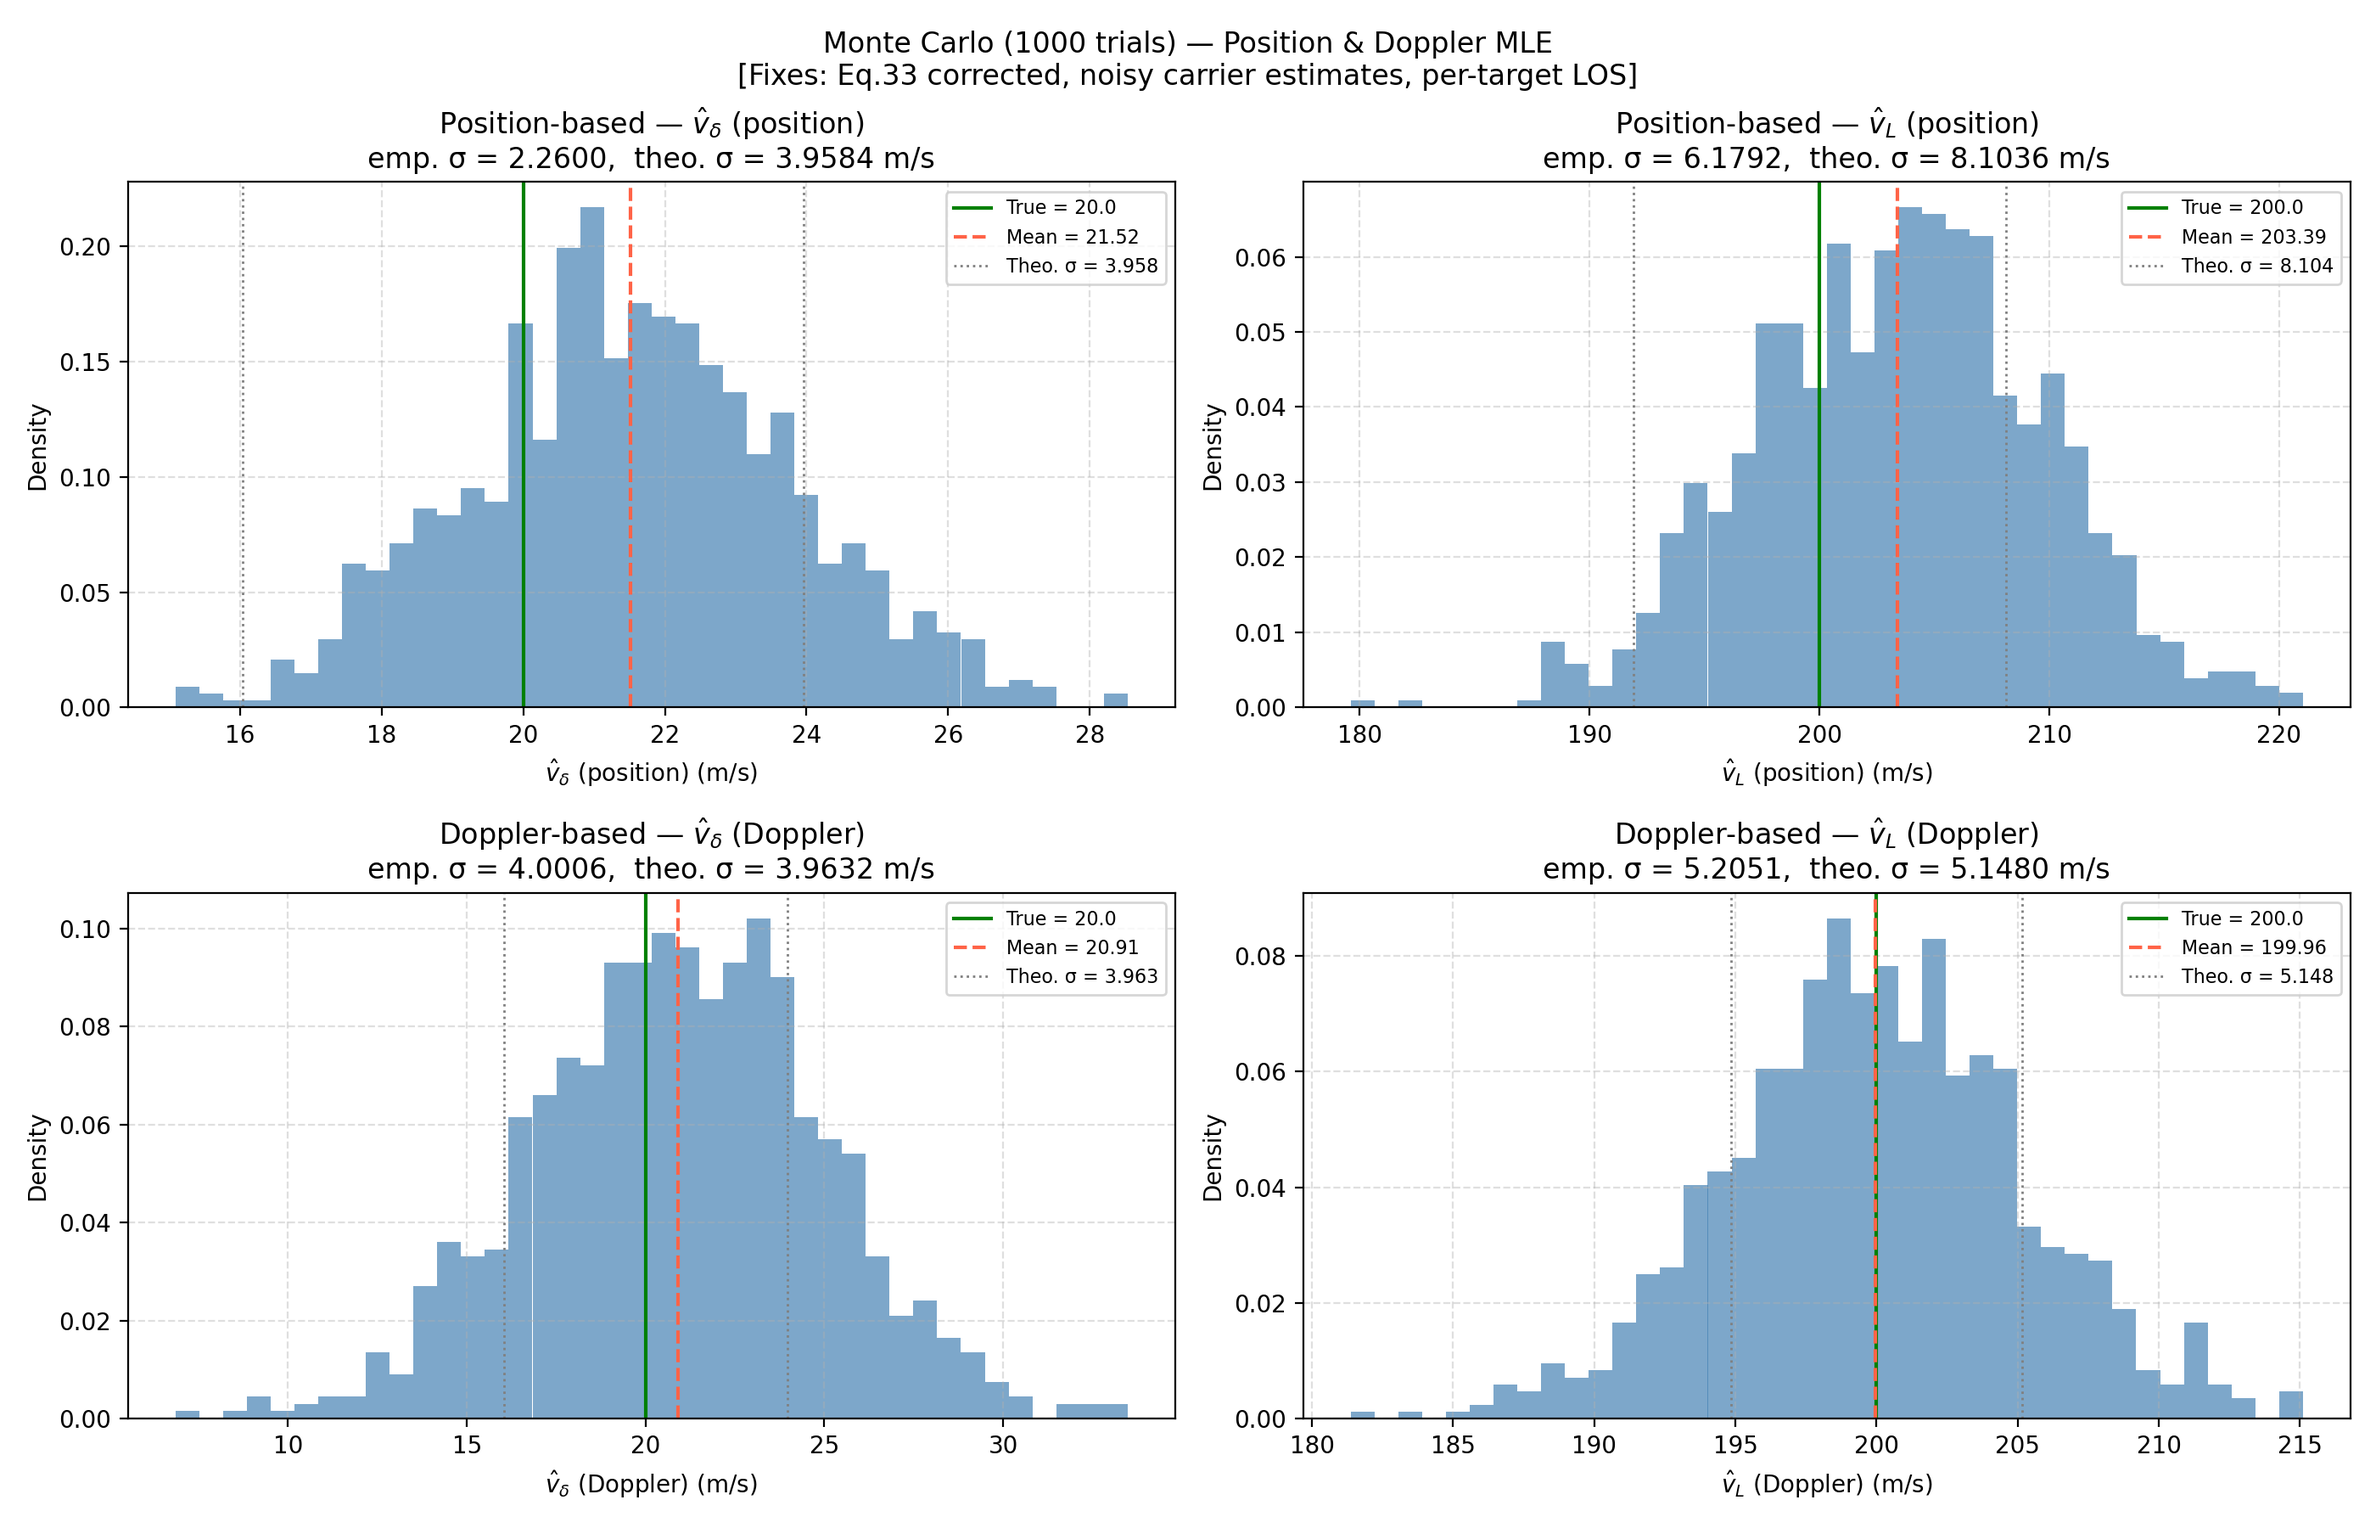
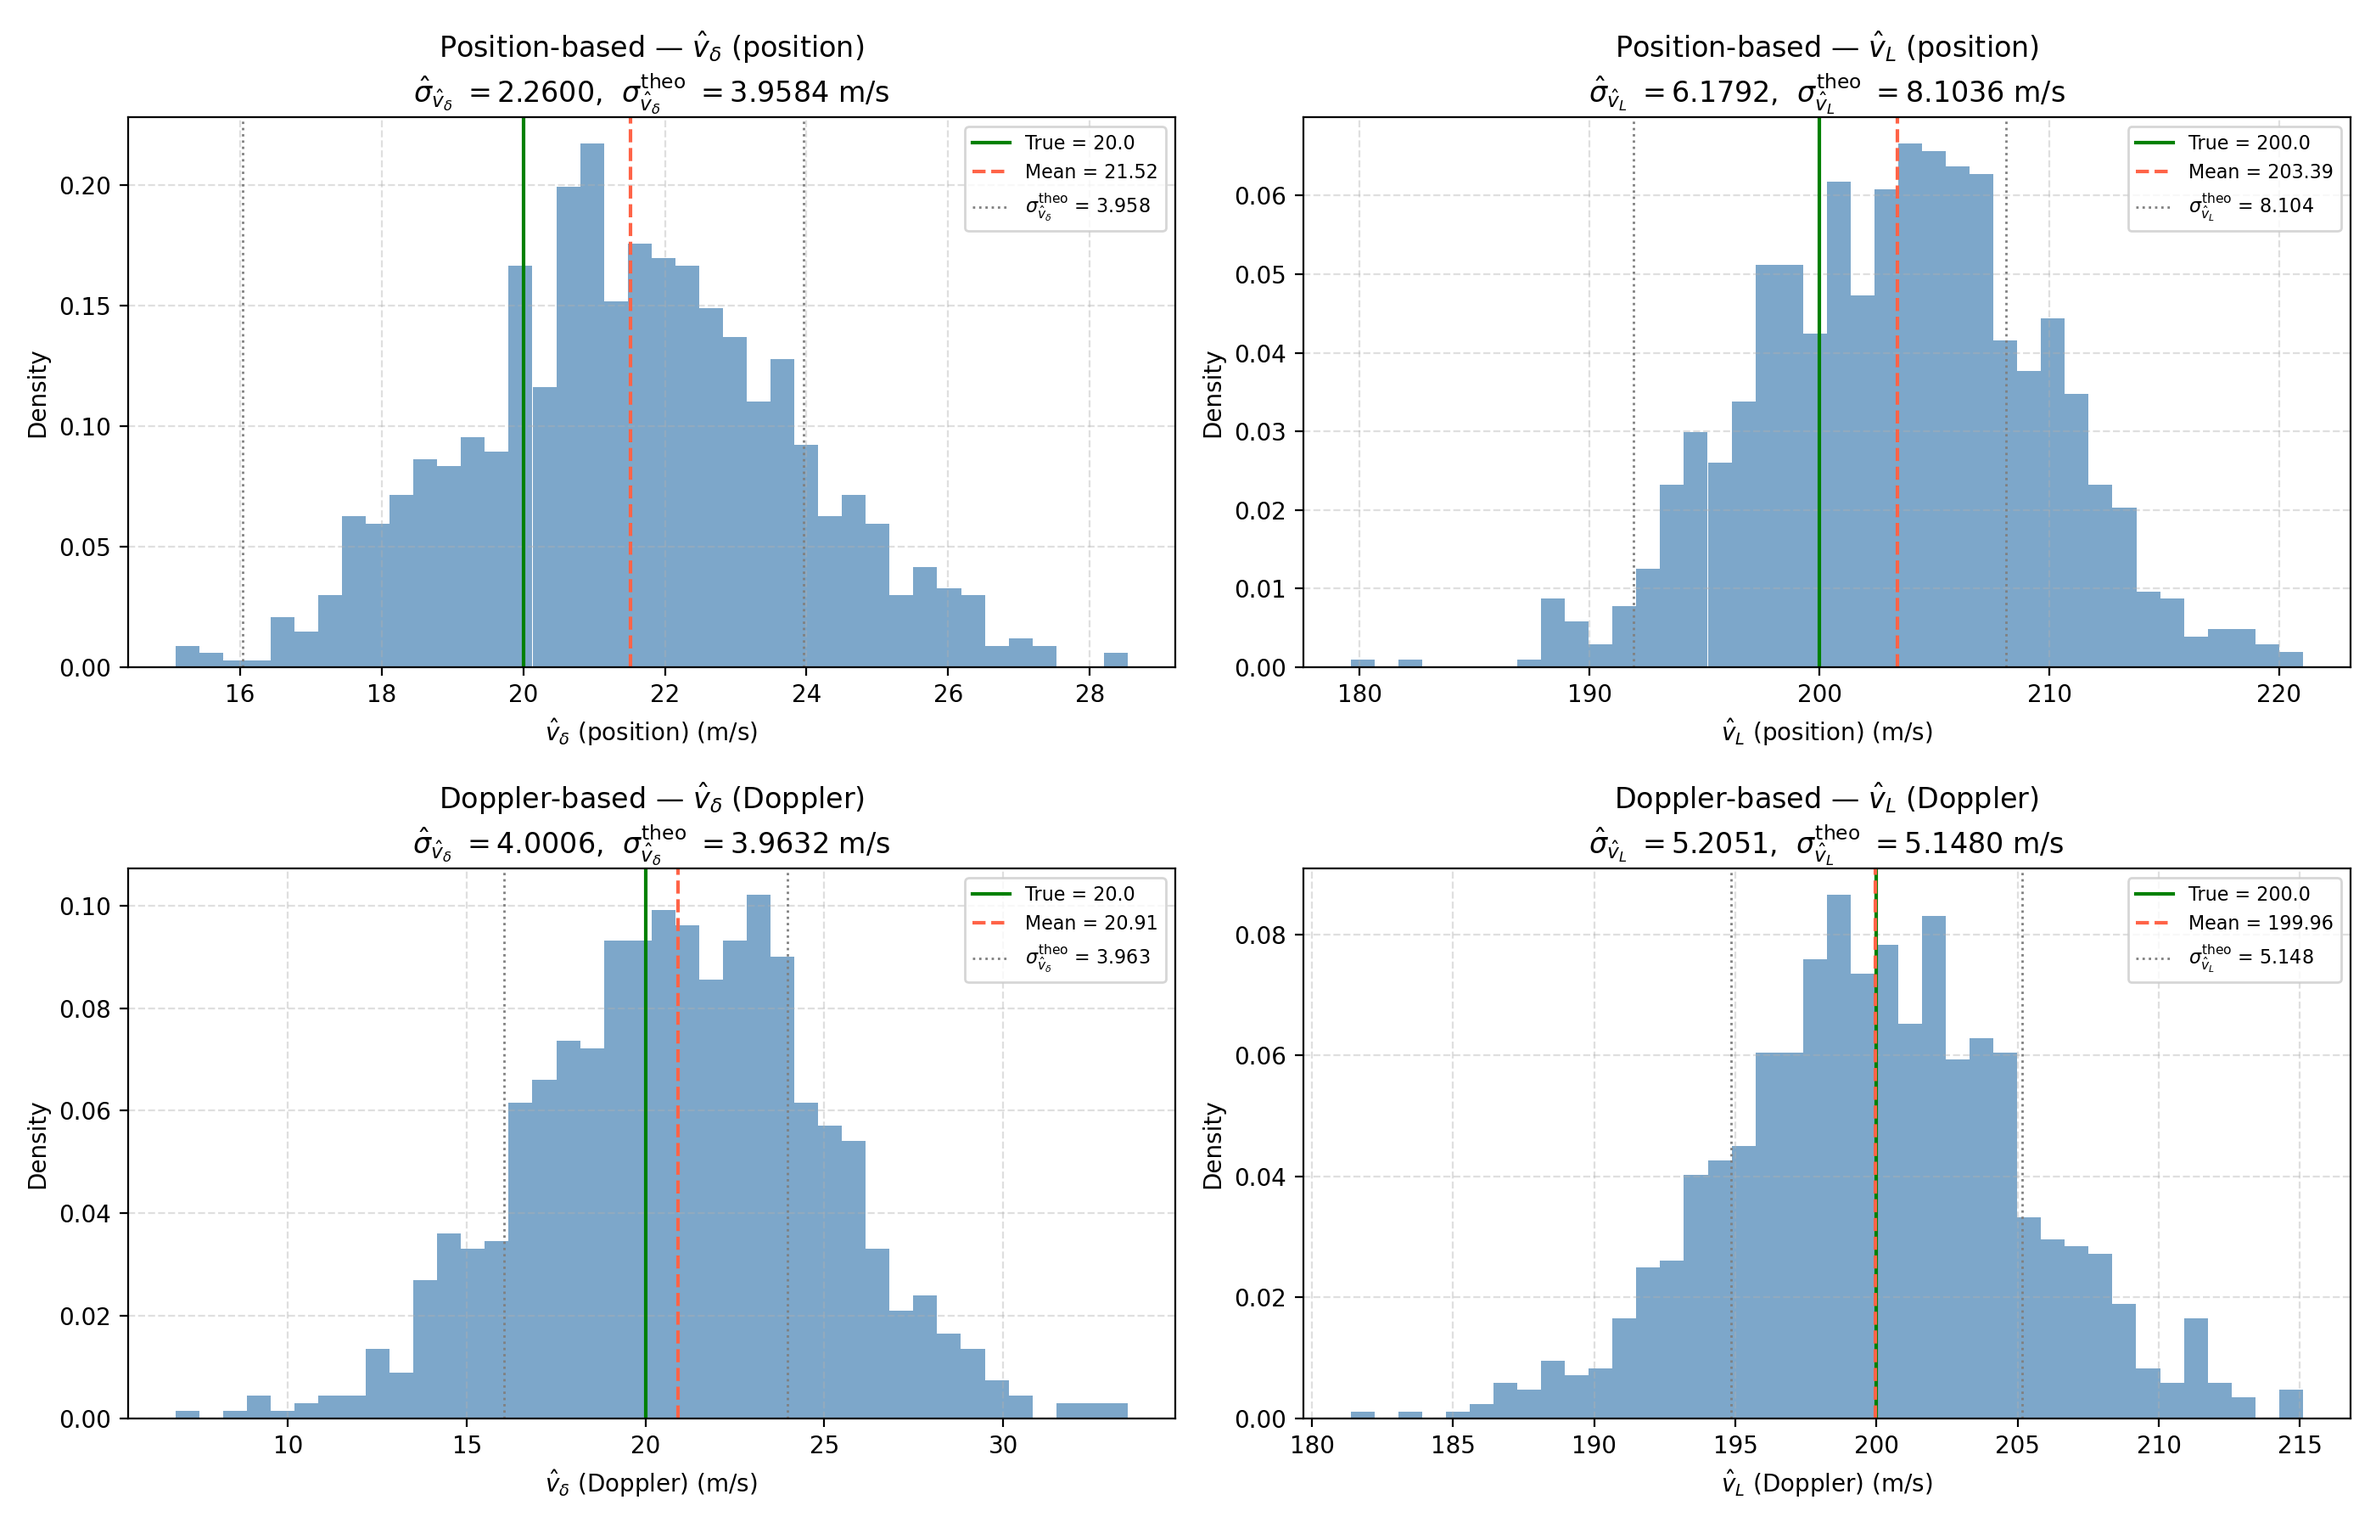
did most of the cosmetic changes, sigma_w still computed from spherical noise

diff --git a/src/main.py b/src/main.py
@@ -17,6 +17,7 @@ from mpl_toolkits.mplot3d import Axes3D
 # Coordinate transforms
 # ---------------------------------------------------------------------------
 
+
 def cart2sph_ENU(xyz: np.ndarray) -> np.ndarray:
     x = xyz[..., 0]
     y = xyz[..., 1]
@@ -48,6 +49,7 @@ def sph2cart_ENU(rae: np.ndarray) -> np.ndarray:
 # Rotation matrices  (Eqs. 7–10)
 # ---------------------------------------------------------------------------
 
+
 def A1(alpha_c: float) -> np.ndarray:
     ca, sa = np.cos(alpha_c), np.sin(alpha_c)
     return np.array([[ca, sa, 0.0], [-sa, ca, 0.0], [0.0, 0.0, 1.0]])
@@ -77,6 +79,7 @@ def A_total(alpha_c: float, eps_c: float) -> np.ndarray:
 # Cartesian noise MSE via linearised Jacobian
 # ---------------------------------------------------------------------------
 
+
 def cartesian_noise_MSE(
     r: float, az: float, el: float, sigma_r: float, sigma_az: float, sigma_el: float
 ) -> float:
@@ -103,6 +106,7 @@ def cartesian_noise_MSE(
 # Simulation parameters  (Section 5)
 # ---------------------------------------------------------------------------
 
+
 @dataclass(frozen=True)
 class Params:
     n: int = 12
@@ -111,7 +115,7 @@ class Params:
     g: float = 9.81
 
     v_delta: float = 20.0  # lateral speed
-    v_L: float = 200.0     # longitudinal speed
+    v_L: float = 200.0  # longitudinal speed
 
     xc_m: tuple = (40e3, 40e3, 40e3)
     vc_mps: tuple = (-3.2e3, 0.0, -3.0e3)
@@ -136,6 +140,7 @@ class Params:
 # ---------------------------------------------------------------------------
 # Core simulation
 # ---------------------------------------------------------------------------
+
 
 def run_sim(p: Params) -> dict:
     rng = np.random.default_rng(p.seed)
@@ -205,8 +210,8 @@ def run_sim(p: Params) -> dict:
     # Noisy carrier estimates (Fix 2)
     xc_hat = xc + rng.normal(0.0, p.sigma_p / np.sqrt(3), size=3)
     vc_hat_norm = np.linalg.norm(vc) + rng.normal(0.0, p.sigma_vc)
-    #vc_hat_vec = vc + rng.normal(0.0, p.sigma_vc / np.sqrt(3), size=3)
-    #vc_hat_norm = np.linalg.norm(vc_hat_vec)
+    # vc_hat_vec = vc + rng.normal(0.0, p.sigma_vc / np.sqrt(3), size=3)
+    # vc_hat_norm = np.linalg.norm(vc_hat_vec)
 
     # LOS geometry
     one_LOS_carrier = xc / np.linalg.norm(xc)
@@ -270,6 +275,7 @@ def run_sim(p: Params) -> dict:
         "vce": vce,
         "sigma_w": sigma_w,
     }
+
 
 # ---------------------------------------------------------------------------
 # Table 1 – theoretical standard deviations  (Eqs. 33, 41, 52, 57)
@@ -363,7 +369,7 @@ def compute_doppler_mle_estimates(p: Params, sim: dict) -> dict:
     phi_cLOS = sim["phi_cLOS"]
     phi_disp = sim["phi_disp"]  # per-target phi values (Fix 3)
     z_D_noisy = sim["z_D_noisy"]
-    vc_hat_norm = sim["vc_hat_norm"]   # noisy carrier speed estimate (Fix 2)
+    vc_hat_norm = sim["vc_hat_norm"]  # noisy carrier speed estimate (Fix 2)
 
     # --- v_L from Doppler (Eq. 51) ---
     # Use the unresolved blob Doppler measurement (carrier LOS projection), Eq. 49/51
@@ -431,6 +437,8 @@ def plot_mc(outdir: Path, p: Params, mc: dict, sigmas: dict) -> None:
             sigmas["sigma_vdelta_pos"],
             "$\\hat{v}_\\delta$ (position)",
             "Position-based",
+            r"$\hat{\sigma}_{\hat{v}_\delta}$",
+            r"$\sigma_{\hat{v}_\delta}^{\mathrm{theo}}$",
         ),
         (
             axes[0, 1],
@@ -439,6 +447,8 @@ def plot_mc(outdir: Path, p: Params, mc: dict, sigmas: dict) -> None:
             sigmas["sigma_vL_pos"],
             "$\\hat{v}_L$ (position)",
             "Position-based",
+            r"$\hat{\sigma}_{\hat{v}_L}$",
+            r"$\sigma_{\hat{v}_L}^{\mathrm{theo}}$",
         ),
         (
             axes[1, 0],
@@ -447,6 +457,8 @@ def plot_mc(outdir: Path, p: Params, mc: dict, sigmas: dict) -> None:
             sigmas["sigma_vdelta_doppler"],
             "$\\hat{v}_\\delta$ (Doppler)",
             "Doppler-based",
+            r"$\hat{\sigma}_{\hat{v}_\delta}$",
+            r"$\sigma_{\hat{v}_\delta}^{\mathrm{theo}}$",
         ),
         (
             axes[1, 1],
@@ -455,10 +467,12 @@ def plot_mc(outdir: Path, p: Params, mc: dict, sigmas: dict) -> None:
             sigmas["sigma_vL_doppler"],
             "$\\hat{v}_L$ (Doppler)",
             "Doppler-based",
+            r"$\hat{\sigma}_{\hat{v}_L}$",
+            r"$\sigma_{\hat{v}_L}^{\mathrm{theo}}$",
         ),
     ]
 
-    for ax, vals, true_val, theo_sigma, label, subtitle in configs:
+    for ax, vals, true_val, theo_sigma, label, subtitle, emp_sym, theo_sym in configs:
         ax.hist(vals, bins=40, color="steelblue", alpha=0.7, density=True)
         ax.axvline(
             true_val, color="green", lw=1.5, ls="-", label=f"True = {true_val:.1f}"
@@ -475,7 +489,7 @@ def plot_mc(outdir: Path, p: Params, mc: dict, sigmas: dict) -> None:
             color="gray",
             lw=1.0,
             ls=":",
-            label=f"Theo. σ = {theo_sigma:.3f}",
+            label=theo_sym + f" = {theo_sigma:.3f}",
         )
         ax.axvline(true_val - theo_sigma, color="gray", lw=1.0, ls=":")
 
@@ -483,16 +497,14 @@ def plot_mc(outdir: Path, p: Params, mc: dict, sigmas: dict) -> None:
         ax.set_ylabel("Density")
         ax.set_title(
             f"{subtitle} — {label}\n"
-            f"emp. σ = {vals.std():.4f},  theo. σ = {theo_sigma:.4f} m/s"
+            + emp_sym
+            + f" $= {vals.std():.4f}$,  "
+            + theo_sym
+            + f" $= {theo_sigma:.4f}$ m/s"
         )
         ax.legend(fontsize=8)
         ax.grid(True, ls="--", alpha=0.4)
 
-    fig.suptitle(
-        f"Monte Carlo ({mc['n_trials']} trials) — Position & Doppler MLE\n"
-        f"[Fixes: Eq.33 corrected, noisy carrier estimates, per-target LOS]",
-        fontsize=12,
-    )
     plt.tight_layout()
     plt.savefig(outdir / "MC.png", dpi=200)
     plt.close(fig)
@@ -596,10 +608,10 @@ def plot_R1(outdir: Path, sim: dict) -> None:
 
     ax.set_xlabel("Azimuth (mrad)")
     ax.set_ylabel("Elevation (mrad)")
-    ax.set_title(
-        "R1 – Ejected objects at $t_\\rho = 1\\,$s\n"
-        "(true = circles, noisy = crosses, centre = star)"
-    )
+    #   ax.set_title(
+    #       "R1 – Ejected objects at $t_\\rho = 1\\,$s\n"
+    #       "(true = circles, noisy = crosses, centre = star)"
+    #   )
     ax.legend(fontsize=9)
     ax.grid(True, linestyle="--", alpha=0.5)
 
@@ -646,9 +658,9 @@ def plot_R3(outdir: Path, sim: dict) -> None:
     ax.set_xlabel("East (km)")
     ax.set_ylabel("North (km)")
     ax.set_zlabel("Up (km)")
-    ax.set_title(
-        "R3 – 3D positions at $t_\\rho = 1\\,$s\n" "(carrier = X, objects = circles)"
-    )
+    #   ax.set_title(
+    #       "R3 – 3D positions at $t_\\rho = 1\\,$s\n" "(carrier = X, objects = circles)"
+    #   )
     ax.legend(fontsize=9)
 
     plt.tight_layout()
